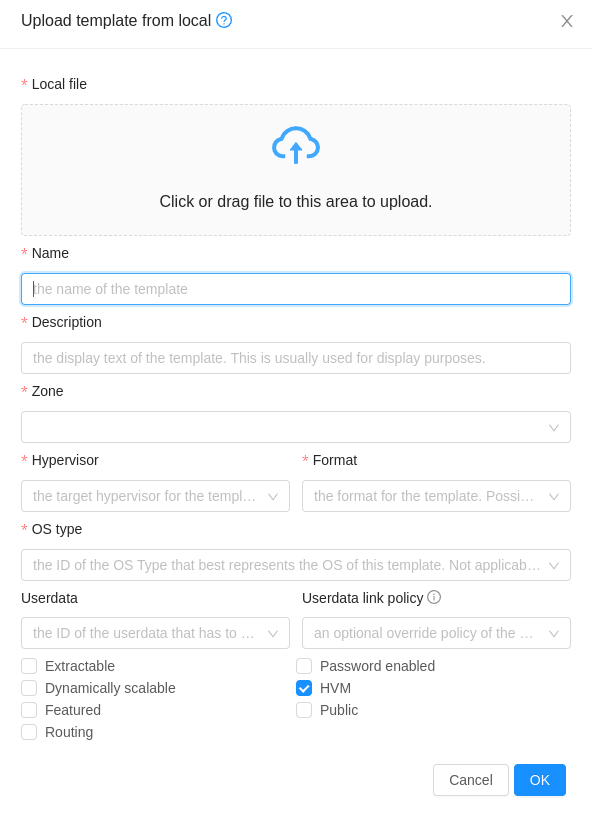
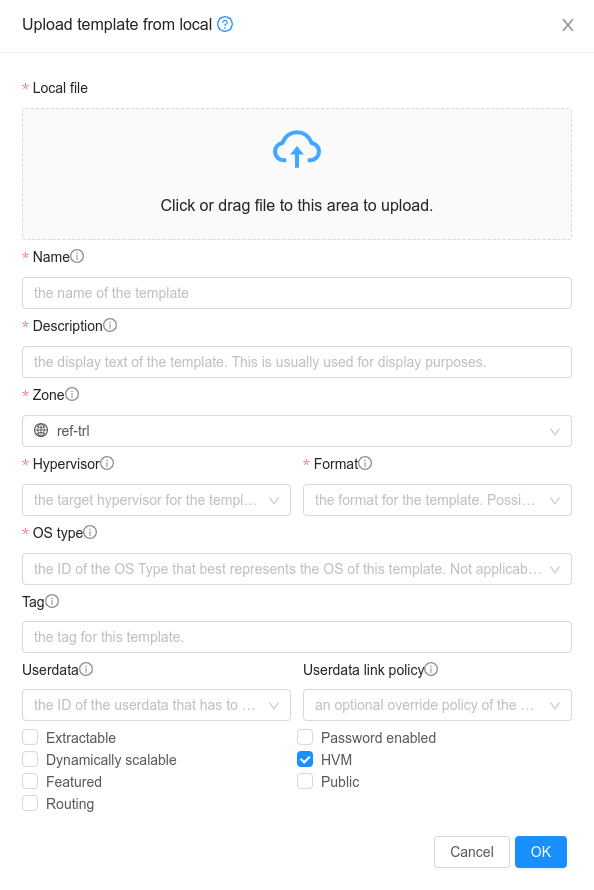
update template tag details

diff --git a/source/adminguide/templates.rst b/source/adminguide/templates.rst
@@ -268,6 +268,9 @@ To upload a Template:
             selecting an OS Type when registering a Template if the option 'Read Instance settings from OVA' is selected. In this case, the OS Type is
             obtained from the Template after it is registered.
 
+   -  **Tag**: The tag for the template. This tag can be used with host tags to
+      allow deployment of Instances on specific hosts.
+
    -  **Userdata**: The registered Userdata are listed. Select the
       desired one.
 
